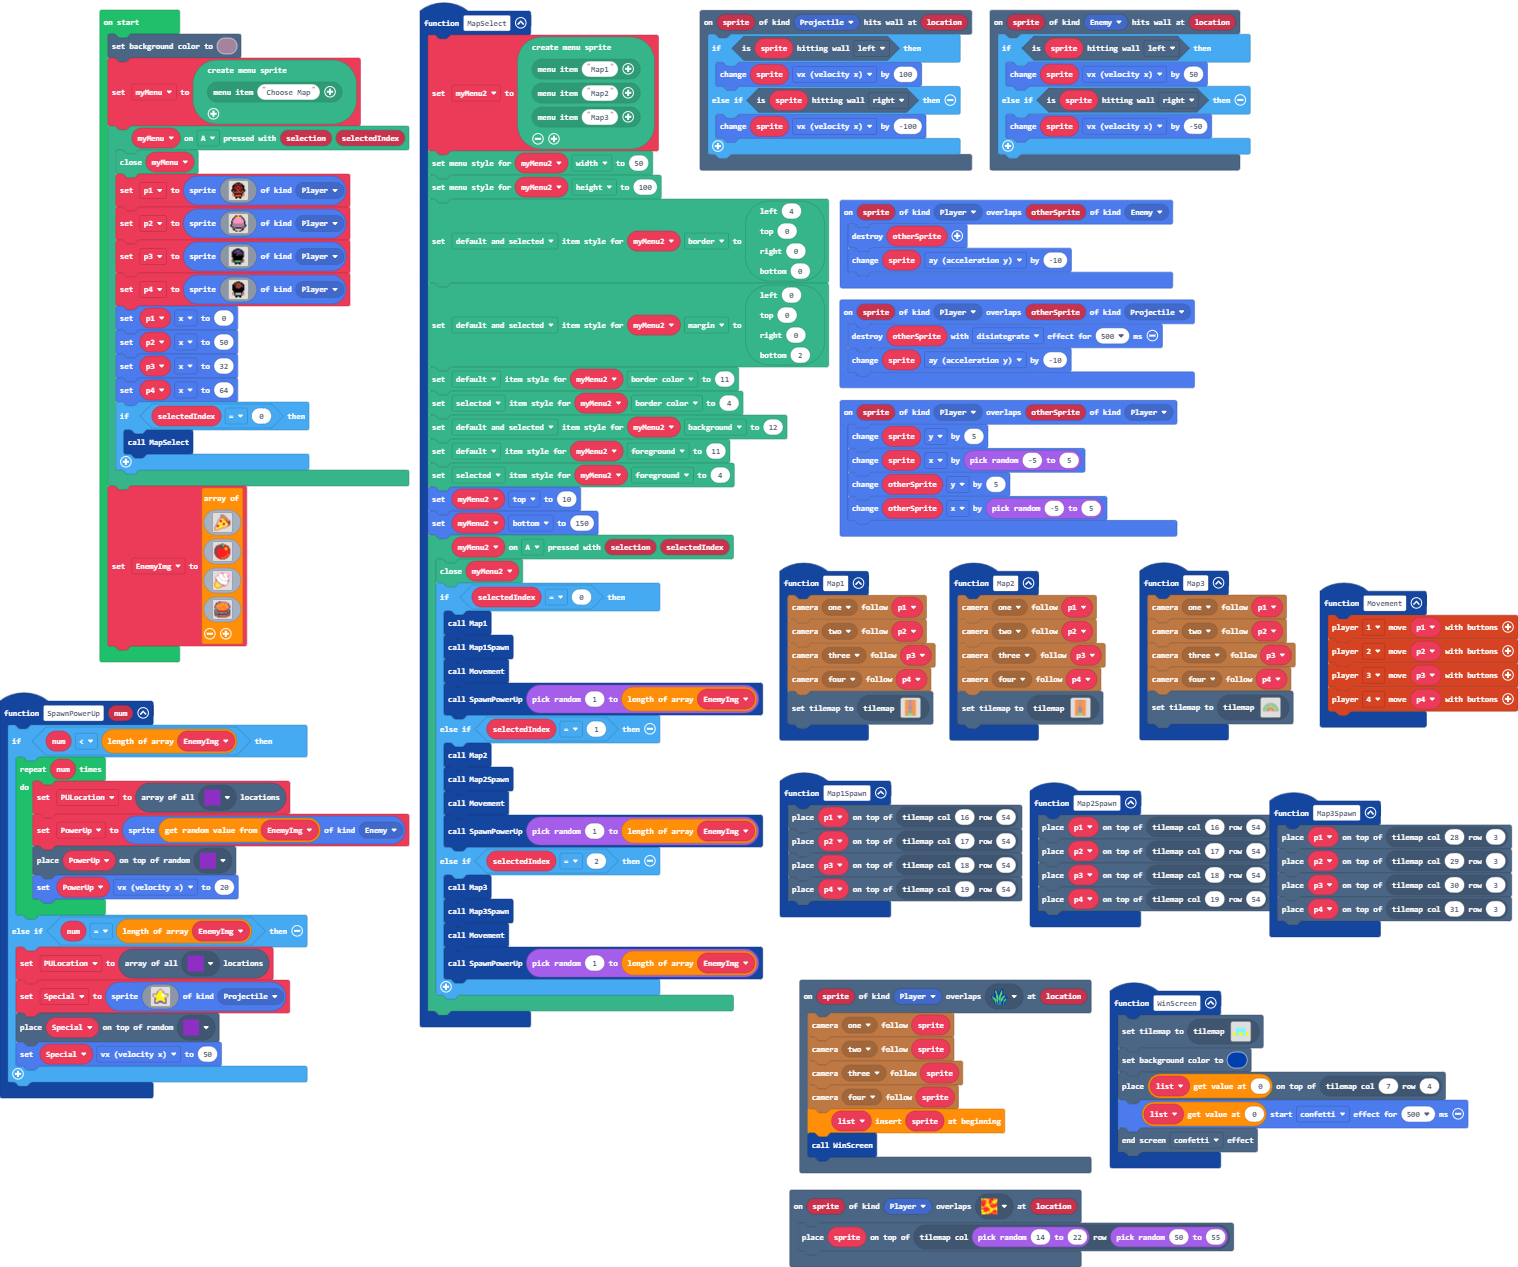
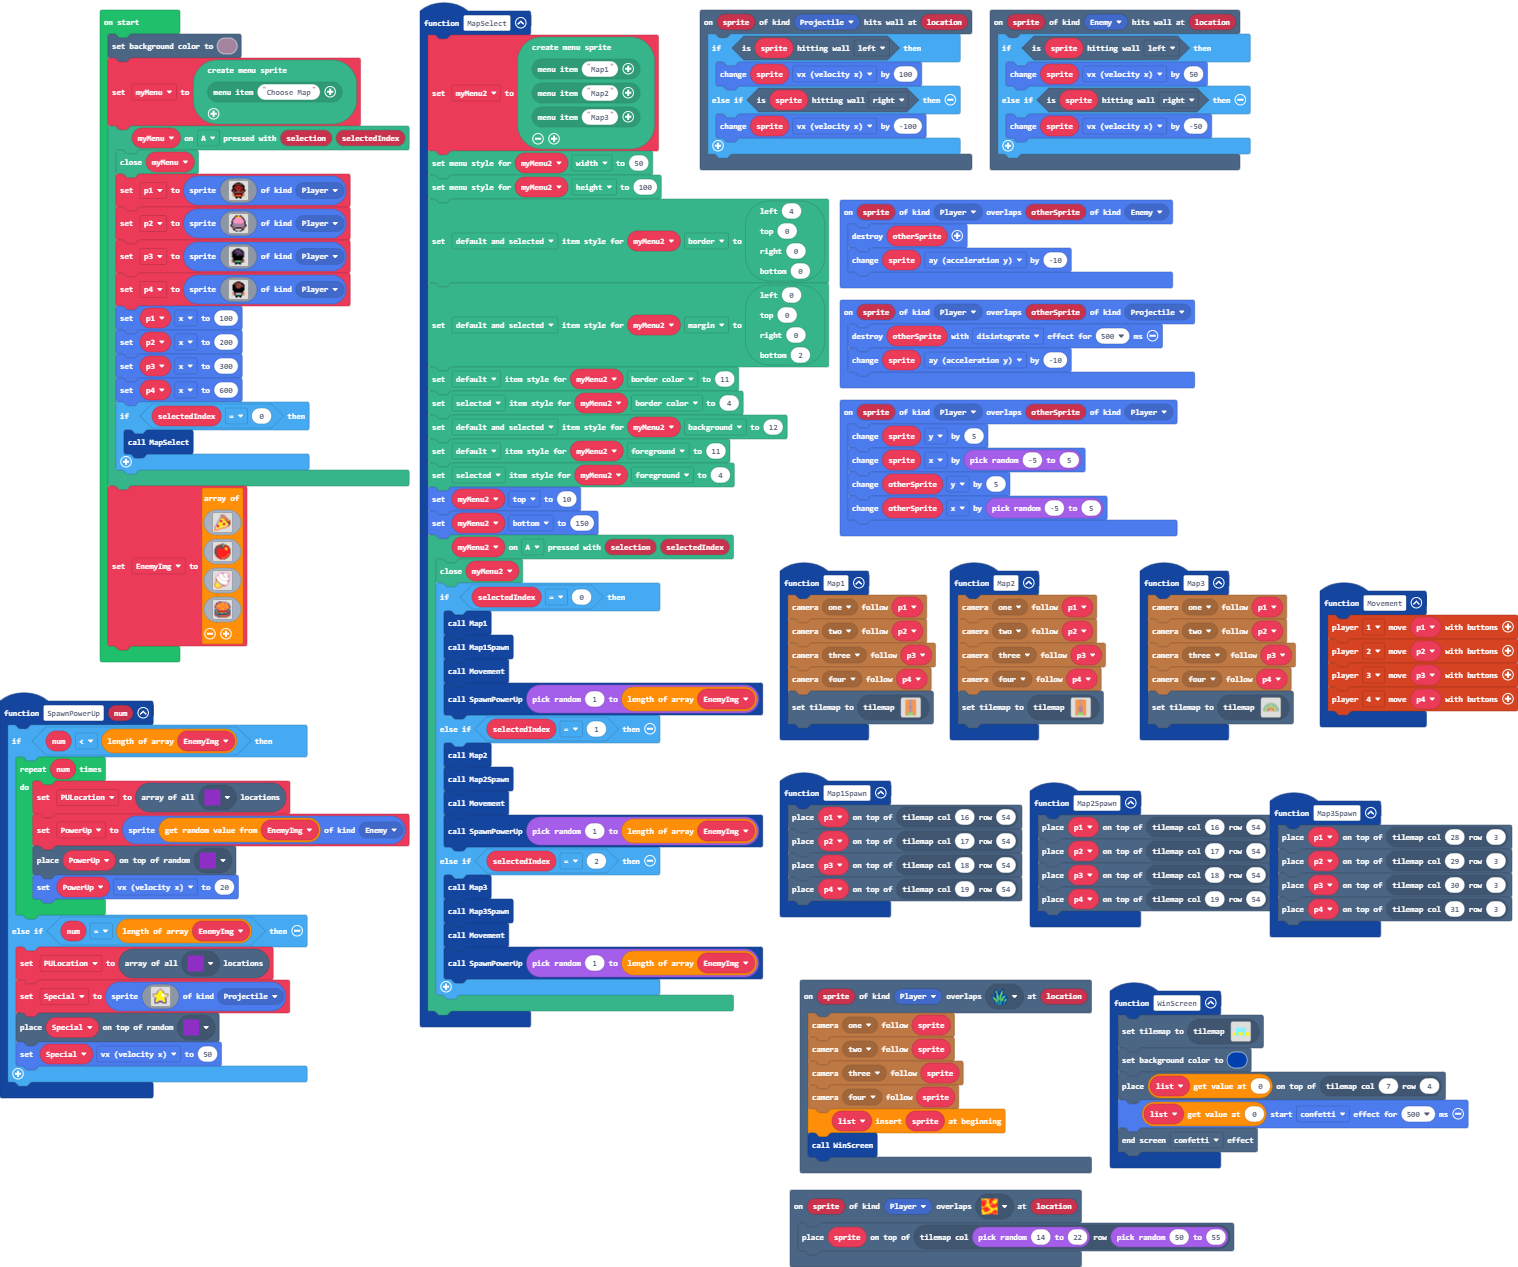
Update main.blocks, main.ts

diff --git a/main.ts b/main.ts
@@ -256,10 +256,10 @@ myMenu.onButtonPressed(controller.A, function (selection, selectedIndex) {
         . . . f f f f f f . . . 
         . . . f f . . f f . . . 
         `, SpriteKind.Player)
-    p1.x = 0
-    p2.x = 50
-    p3.x = 32
-    p4.x = 64
+    p1.x = 100
+    p2.x = 200
+    p3.x = 300
+    p4.x = 600
     if (selectedIndex == 0) {
         MapSelect()
     }
